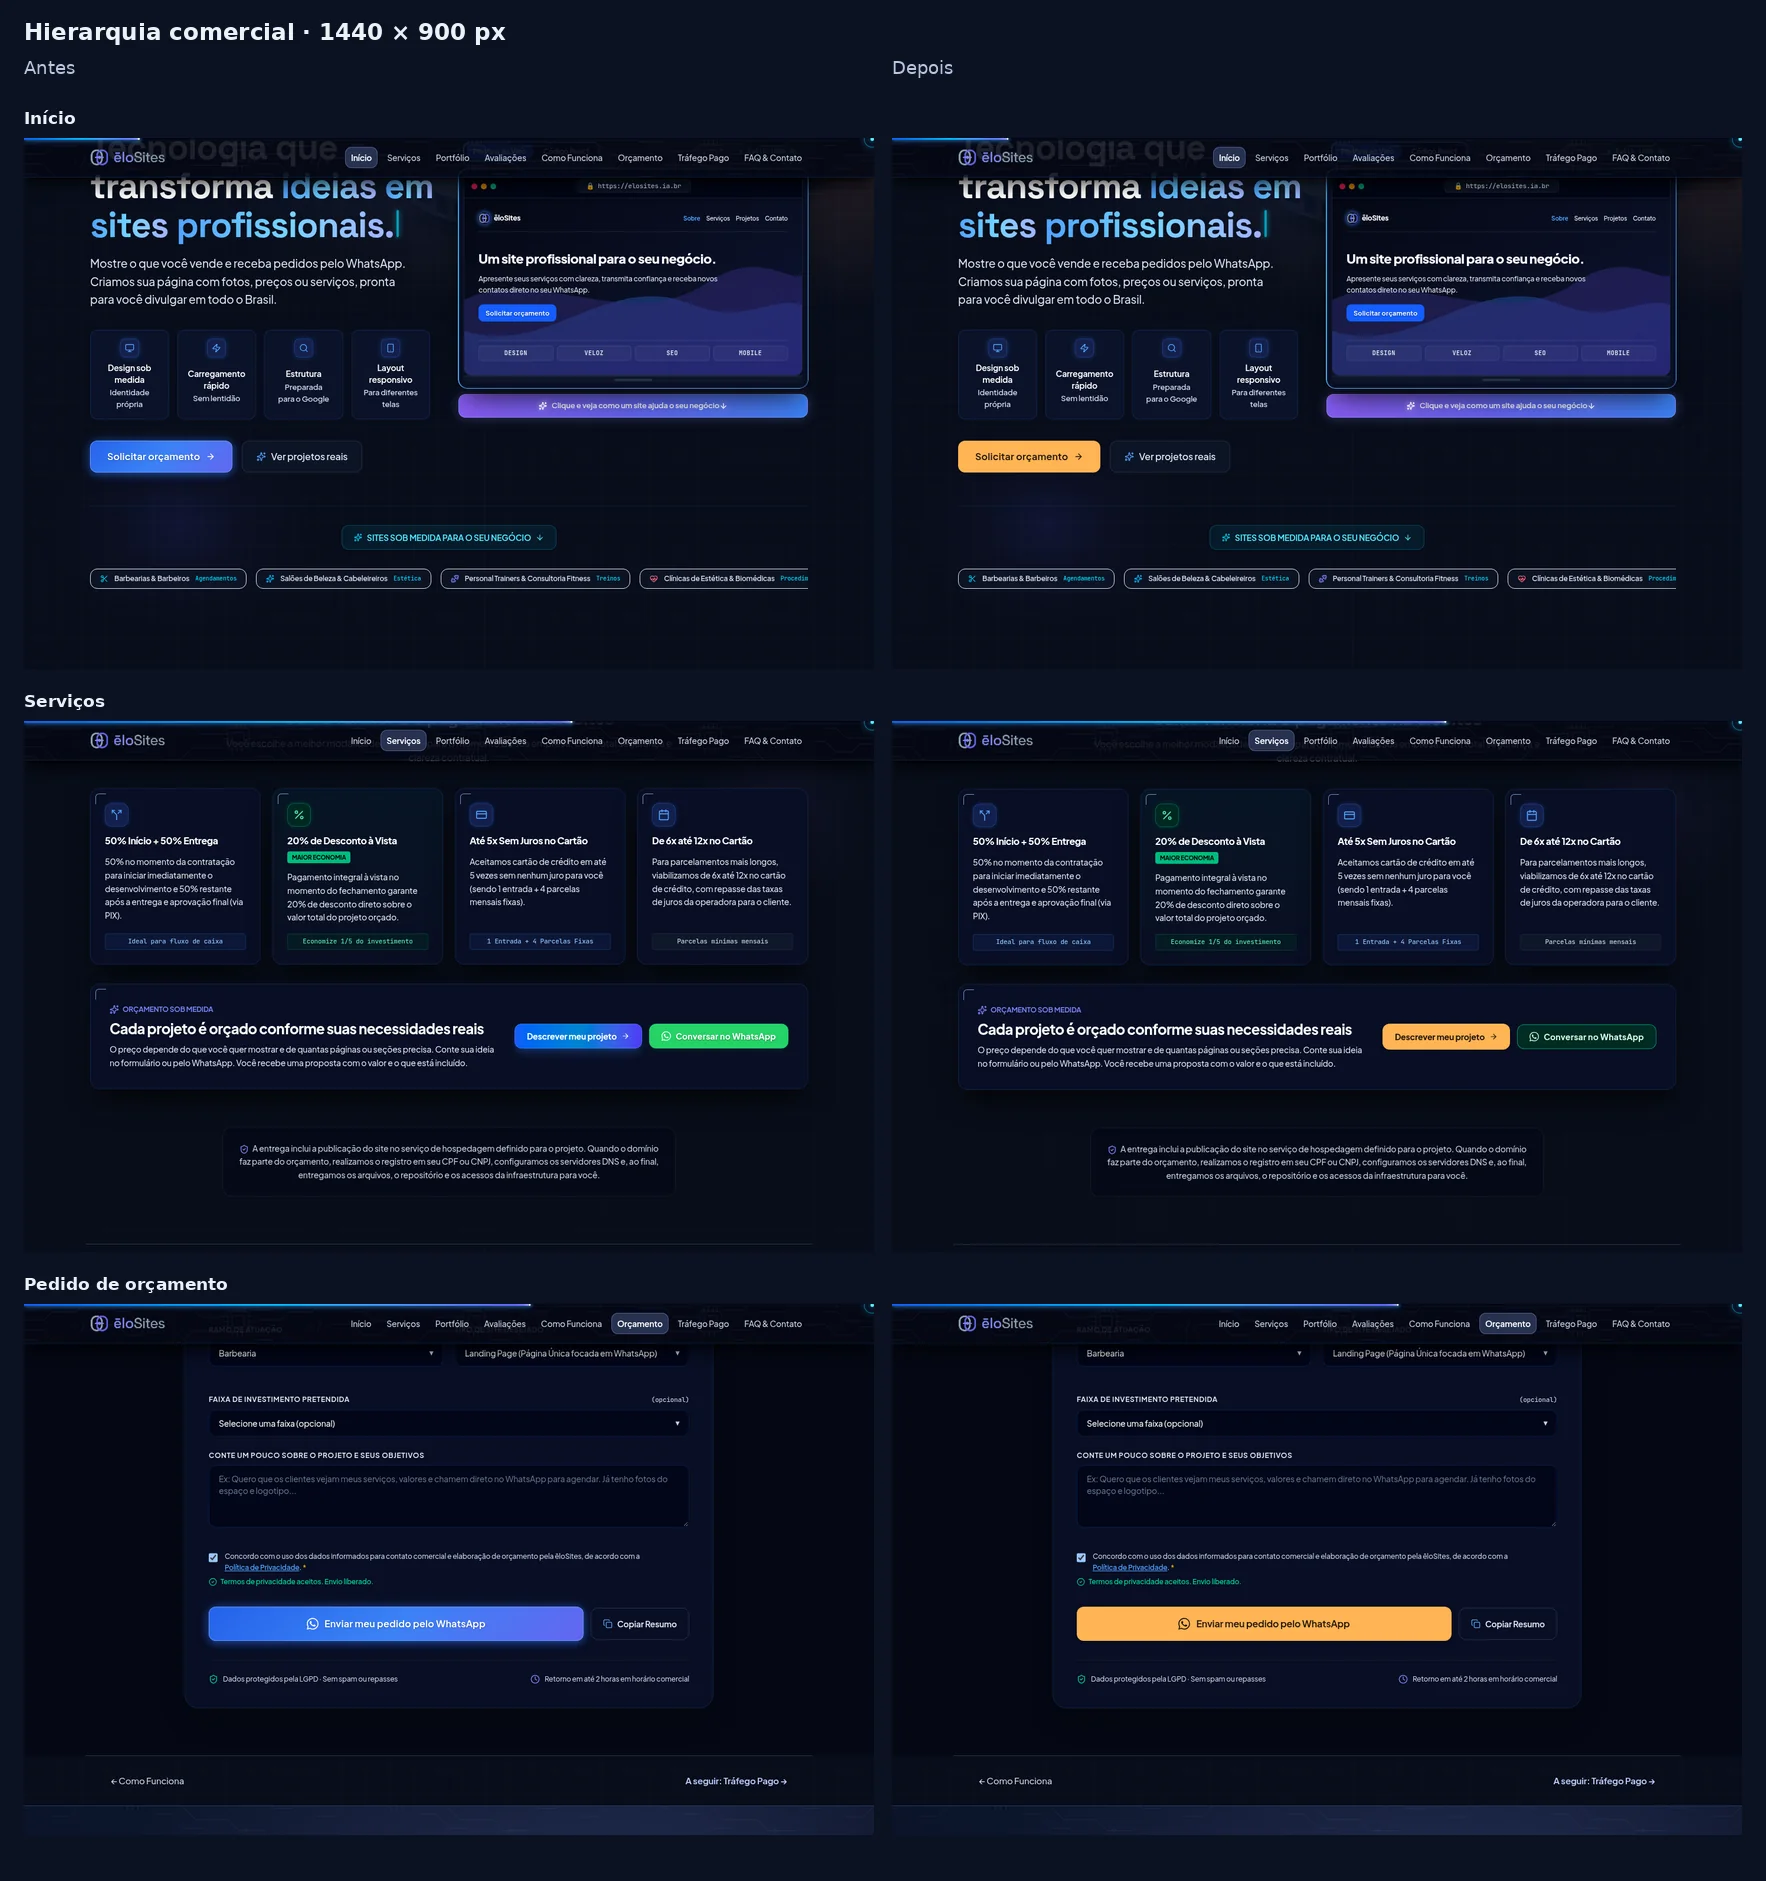
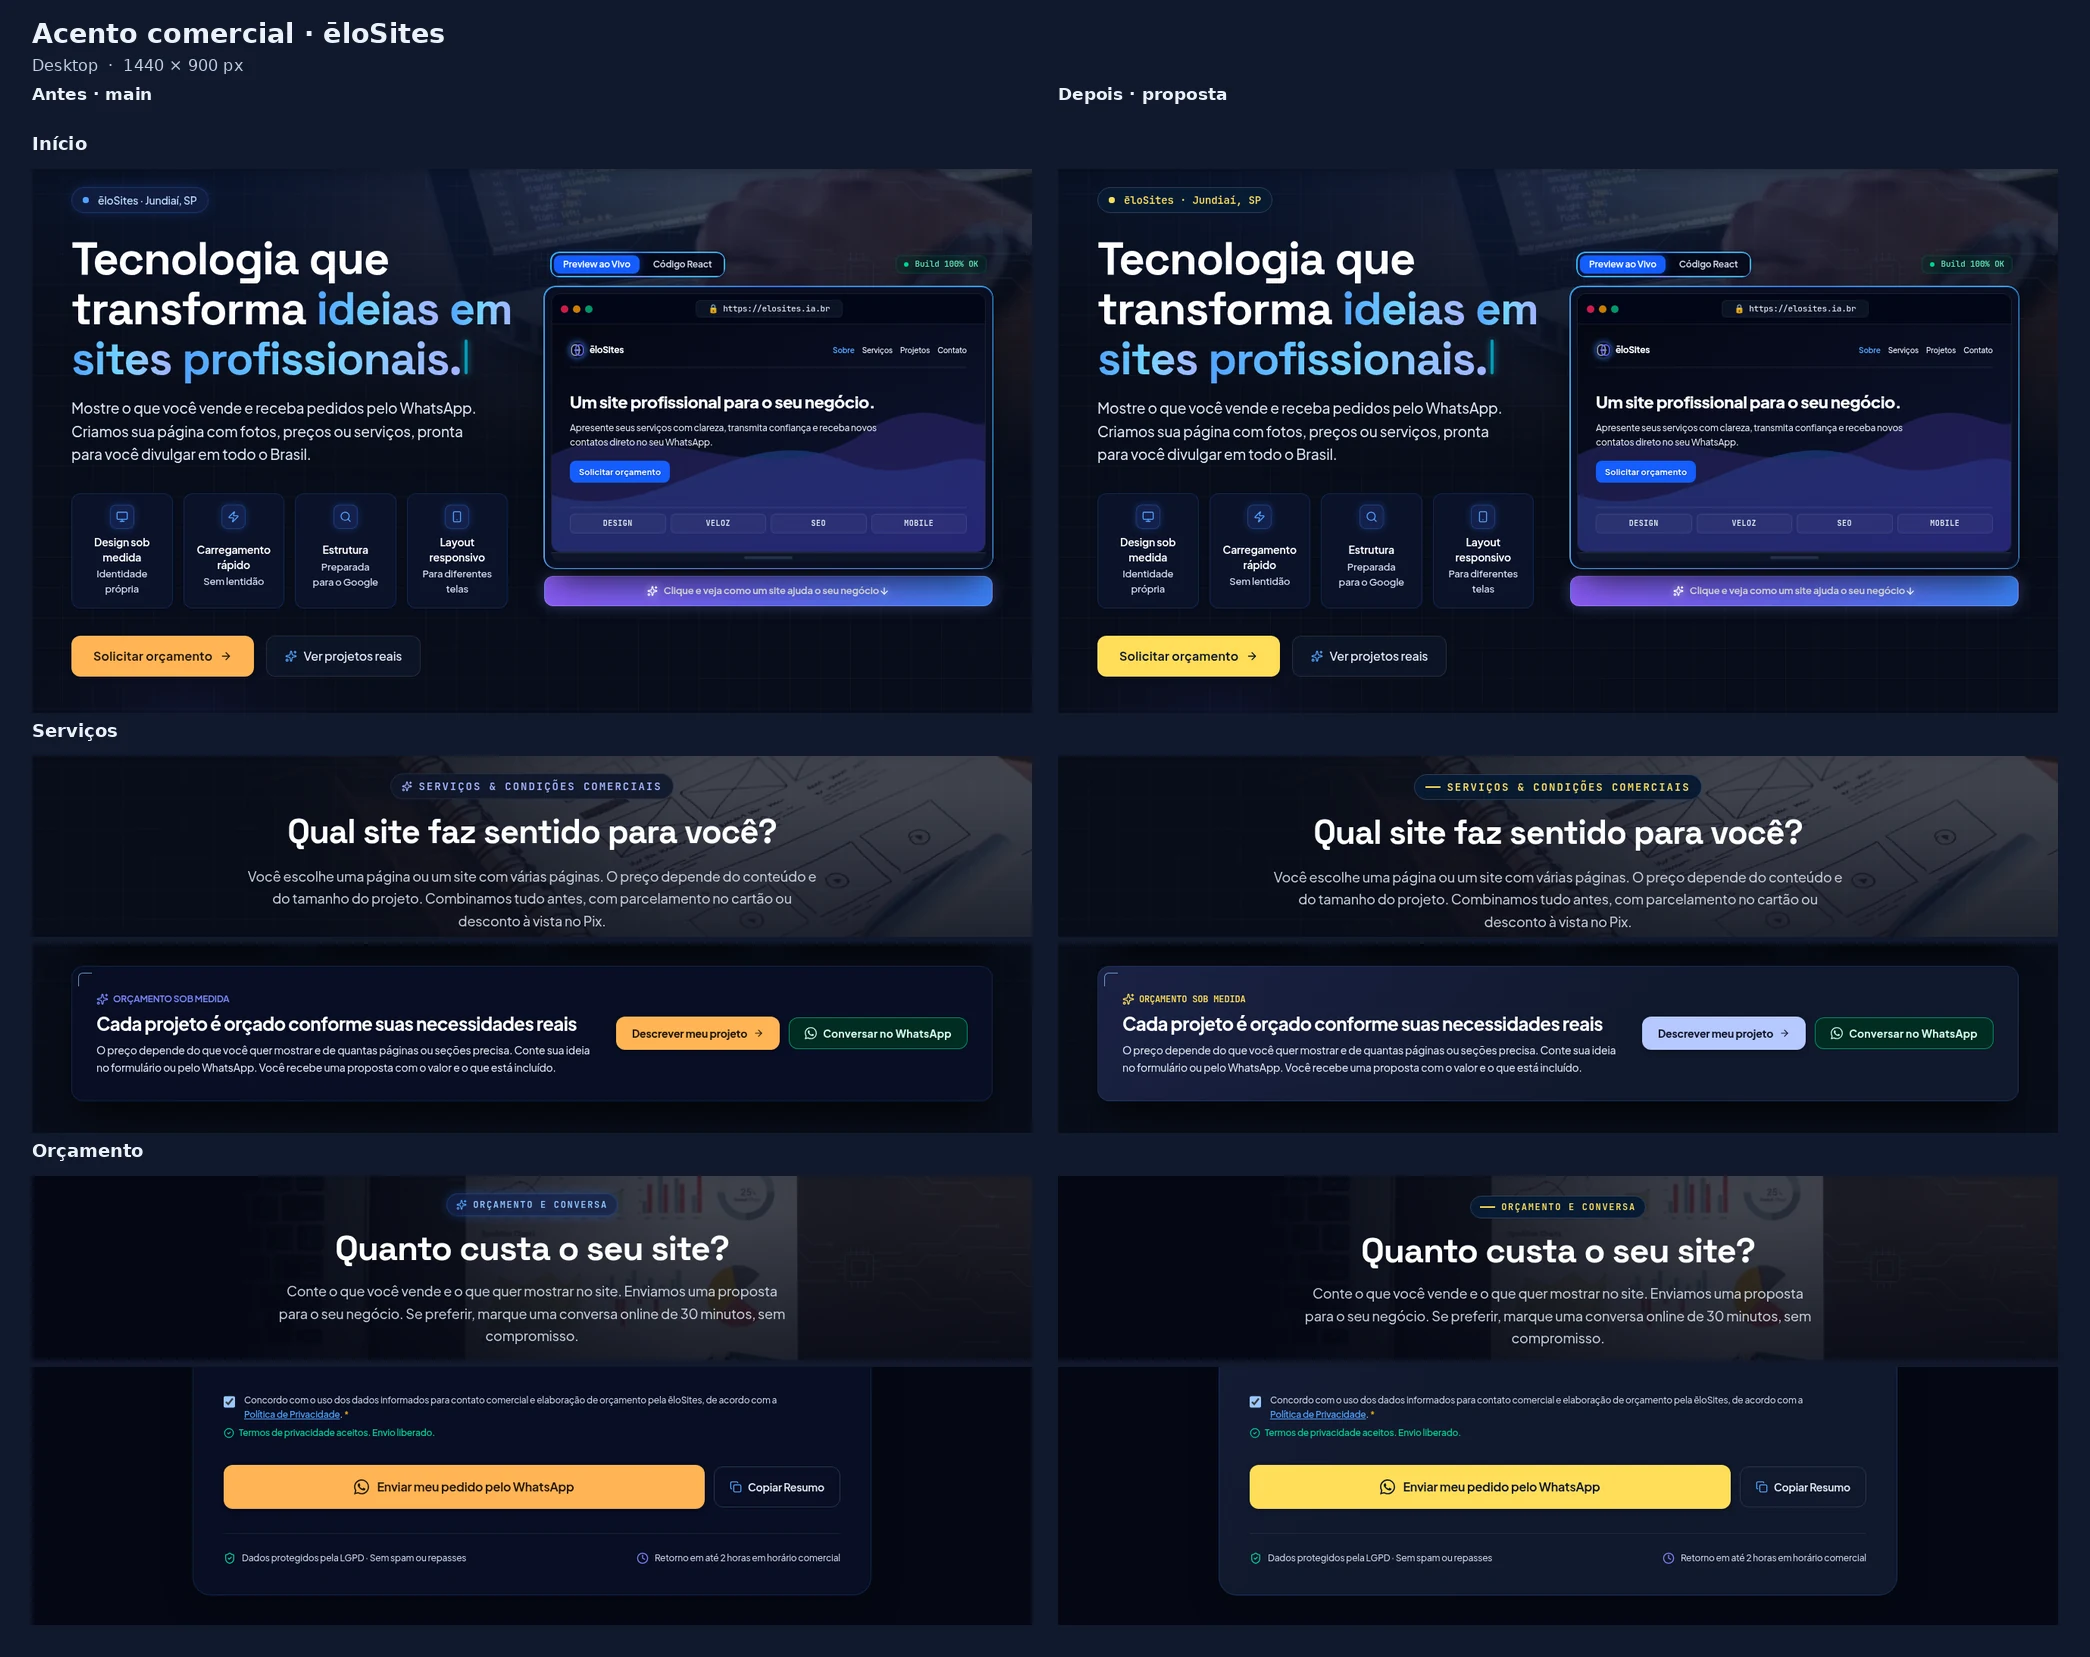
design: blend ēloSites indigo with the partnership yellow

diff --git a/src/components/ServicesSection.tsx b/src/components/ServicesSection.tsx
@@ -130,8 +130,7 @@ export const ServicesSection: React.FC<ServicesSectionProps> = ({ onNavigateToOr
         {/* Cabeçalho da Seção */}
         <div>
           <div className="max-w-3xl mx-auto text-center space-y-4 mb-12 sm:mb-16">
-            <div className="section-kicker inline-flex items-center gap-2 px-3.5 py-1.5 rounded-full bg-slate-900/90 border border-white/[0.08] text-indigo-300 text-xs sm:text-sm font-semibold uppercase">
-              <Sparkles className="w-3.5 h-3.5" aria-hidden="true" />
+            <div className="commercial-kicker section-kicker inline-flex items-center gap-2 px-3.5 py-1.5 rounded-full text-xs sm:text-sm font-semibold uppercase">
               <span>SERVIÇOS & CONDIÇÕES COMERCIAIS</span>
             </div>
             <SplitLines
@@ -381,10 +380,10 @@ export const ServicesSection: React.FC<ServicesSectionProps> = ({ onNavigateToOr
             {/* Bloco de Orçamento Personalizado sob Medida */}
             <BiReveal direction="up" delay={150} className="mt-8 w-full">
               <Interactive3DCard maxTilt={0} className="w-full">
-                <div className="glass-card-interactive surface-card service-card scroll-perf-card relative rounded-2xl bg-[#090E23] border border-blue-500/25 hover:border-blue-400/50 p-6 sm:p-8 !mb-0 shadow-2xl shadow-black/80 bracket-panel transition-all">
+                <div className="glass-card-interactive surface-card commercial-panel service-card scroll-perf-card relative rounded-2xl border border-blue-500/25 hover:border-blue-400/50 p-6 sm:p-8 !mb-0 shadow-2xl shadow-black/80 bracket-panel transition-all">
                   <div className="flex flex-col lg:flex-row items-center justify-between gap-6">
                     <FadeInBlock delay={30} className="space-y-2 text-center lg:text-left">
-                      <div className="inline-flex items-center gap-1.5 text-xs text-indigo-400 font-semibold uppercase">
+                      <div className="inline-flex items-center gap-1.5 font-mono text-xs text-(--cor-destaque-comercial) font-semibold uppercase">
                         <Sparkles className="w-4 h-4" />
                         <span>Orçamento Sob Medida</span>
                       </div>
@@ -401,7 +400,7 @@ export const ServicesSection: React.FC<ServicesSectionProps> = ({ onNavigateToOr
                         <button
                           type="button"
                           onClick={onNavigateToOrcamento}
-                          className="cta-commercial w-full sm:w-auto min-h-12 inline-flex items-center justify-center gap-2 px-5 py-3 sm:py-2.5 rounded-xl text-xs sm:text-sm font-bold"
+                          className="cta-commercial cta-commercial-ice w-full sm:w-auto min-h-12 inline-flex items-center justify-center gap-2 px-5 py-3 sm:py-2.5 rounded-xl text-xs sm:text-sm font-bold"
                         >
                           <span className="text-center">Descrever meu projeto</span>
                           <ArrowRight className="w-3.5 h-3.5" />

diff --git a/src/index.css b/src/index.css
@@ -42,12 +42,12 @@
   --cor-borda: rgba(59, 130, 246, 0.2);
   --cor-borda-hover: rgba(59, 130, 246, 0.45);
 
-  /* Ações de contratação da ēloSites. */
-  --cor-cta-comercial: #ffb454;
-  --cor-cta-comercial-hover: #ffc77e;
-  --cor-cta-comercial-pressionado: #ef9c3e;
-  --cor-cta-comercial-texto: #23170b;
-  --cor-cta-comercial-foco: #ffe2b8;
+  /* Amarelo da parceria nas decisões de orçamento. */
+  --cor-destaque-comercial: #ffde59;
+  --cor-cta-comercial: var(--cor-destaque-comercial);
+  --cor-cta-comercial-hover: #ffea92;
+  --cor-cta-comercial-pressionado: #f2ca42;
+  --cor-cta-comercial-texto: #10152a;
 
   /* Cor de destaque dinâmica e adaptativa por seção */
   --accent-color: #3b82f6;
@@ -919,6 +919,33 @@ a[id*="whatsapp"] {
   }
 }
 
+.commercial-kicker {
+  color: var(--cor-destaque-comercial);
+  background-color: #071b33;
+  border: 1px solid #303d59;
+  font-family: var(--font-mono);
+}
+
+.section-kicker.commercial-kicker::before {
+  content: '';
+  flex: none;
+  width: 1.25rem;
+  border-top: 2px solid currentColor;
+}
+
+/* Reflexo índigo do logotipo sobre o marinho dos cards da parceria. */
+.surface-card.commercial-panel {
+  background-color: #10182c;
+  background-image: linear-gradient(135deg, rgb(99 102 241 / 12%), transparent 60%);
+}
+
+/* O caminho intermediário usa o azul claro dos botões da parceria. */
+.cta-commercial-ice {
+  --cor-cta-comercial: #b6c8ff;
+  --cor-cta-comercial-hover: #d1ddff;
+  --cor-cta-comercial-pressionado: #acbfff;
+}
+
 /* O fundo opaco mantém o contraste também sobre vidro e fotografia. */
 :is(a, button).cta-commercial {
   min-height: 44px;
@@ -948,7 +975,7 @@ a[id*="whatsapp"] {
 }
 
 .cta-commercial:focus-visible {
-  outline: 2px solid var(--cor-cta-comercial-foco);
+  outline: 2px solid var(--cor-destaque-comercial);
   outline-offset: 3px;
   box-shadow: 0 0 0 3px var(--cor-fundo);
 }

diff --git a/src/components/ProjectBriefBookingSection.tsx b/src/components/ProjectBriefBookingSection.tsx
@@ -19,7 +19,6 @@ import {
   Copy,
   Check,
   CalendarPlus,
-  Sparkles,
   ShieldCheck,
   CheckCircle2,
   AlertCircle,
@@ -415,8 +414,7 @@ export const ProjectBriefBookingSection: React.FC<ProjectBriefBookingSectionProp
         <div className="max-w-4xl mx-auto">
           {/* Header */}
           <div className="text-center space-y-4 mb-12 sm:mb-16">
-            <div className="section-kicker inline-flex items-center gap-2 px-3 py-1.5 rounded-full bg-blue-950/70 border border-blue-500/30 text-blue-300 text-xs font-semibold uppercase shadow-[0_0_15px_rgba(59,130,246,0.25)]">
-              <Sparkles className="w-3.5 h-3.5 text-blue-400" aria-hidden="true" />
+            <div className="commercial-kicker section-kicker inline-flex items-center gap-2 px-3 py-1.5 rounded-full text-xs font-semibold uppercase">
               <span>Orçamento e conversa</span>
             </div>
 
@@ -478,7 +476,7 @@ export const ProjectBriefBookingSection: React.FC<ProjectBriefBookingSectionProp
             viewport={{ once: true, amount: 0.08, margin: '0px 0px -40px 0px' }}
             className="w-full"
           >
-            <div className="surface-card rounded-3xl p-6 sm:p-10 relative overflow-hidden bracket-panel bg-[#090E23] border border-blue-500/25 shadow-2xl">
+            <div className="surface-card commercial-panel rounded-3xl p-6 sm:p-10 relative overflow-hidden bracket-panel border border-blue-500/25 shadow-2xl">
             <div
               className="ambient-glow-orb ambient-glow-blue-soft pointer-events-none absolute top-0 right-0 w-80 h-80 rounded-full bg-blue-500/[0.05] blur-3xl"
               style={{ position: 'absolute' }}

diff --git a/src/components/Hero.tsx b/src/components/Hero.tsx
@@ -331,12 +331,12 @@ const HeroInicioSection: React.FC<HeroInicioSectionProps> = ({
             >
               {/* Brand Wordmark & Tagline Kicker */}
               <BiReveal direction="left" delay={50}>
-                <div className="floating-badge inline-flex items-center gap-3 px-3.5 py-1.5 rounded-full bg-blue-950/50 border border-blue-500/25 shadow-[0_0_20px_-4px_rgba(59,130,246,0.3)] backdrop-blur-md">
+                <div className="commercial-kicker floating-badge inline-flex items-center gap-3 px-3.5 py-1.5 rounded-full">
                   <span className="relative flex h-2 w-2">
-                    <span className="animate-ping absolute inline-flex h-full w-full rounded-full bg-blue-400 opacity-75" />
-                    <span className="relative inline-flex rounded-full h-2 w-2 bg-blue-400" />
+                    <span className="animate-ping absolute inline-flex h-full w-full rounded-full bg-current opacity-75" />
+                    <span className="relative inline-flex rounded-full h-2 w-2 bg-current" />
                   </span>
-                  <span className="text-xs sm:text-sm font-medium text-blue-200">
+                  <span className="text-xs sm:text-sm font-medium">
                     ēloSites · Jundiaí, SP
                   </span>
                 </div>
